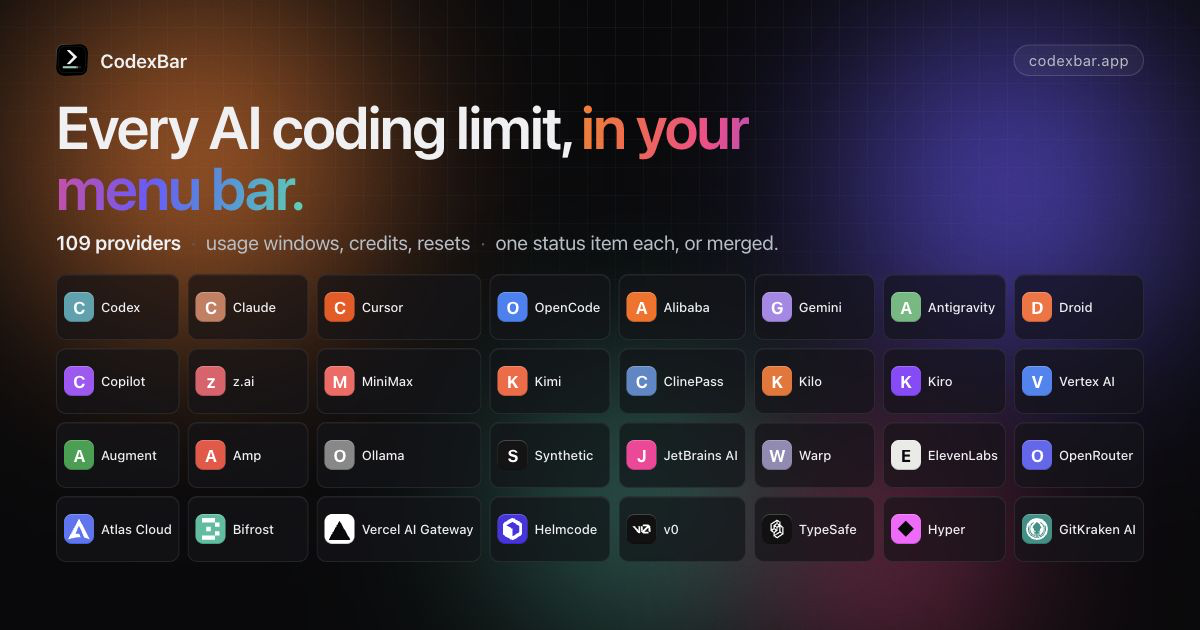
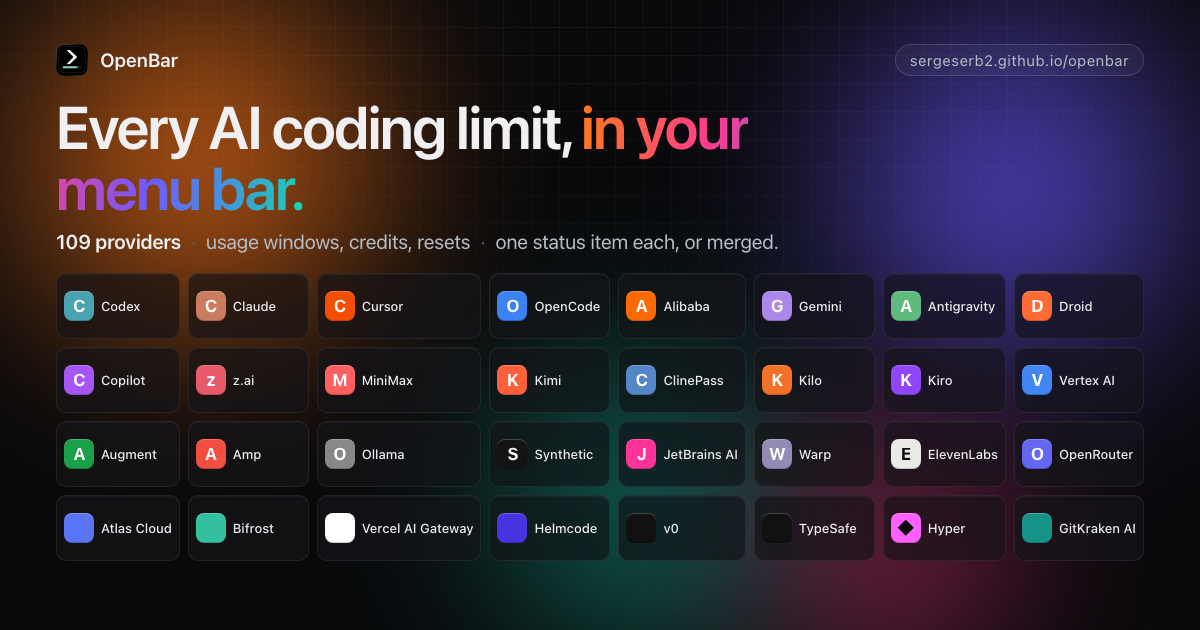
Re-render the social card for OpenBar
The rename changed docs/social.html, so the stored render receipt was stale.
Render it again, update the cache tokens, and keep the card in the README.

diff --git a/docs/index.html b/docs/index.html
@@ -41,10 +41,10 @@
     />
     <meta property="og:type" content="website" />
     <meta property="og:url" content="https://sergeserb2.github.io/OpenBar/" />
-    <meta property="og:image" content="https://sergeserb2.github.io/OpenBar/social.png?v=c2cc5e34aaa0c1f8" />
+    <meta property="og:image" content="https://sergeserb2.github.io/OpenBar/social.png?v=c67a9f96edb3250c" />
     <meta property="og:image:width" content="1200" />
     <meta property="og:image:height" content="630" />
-    <meta name="twitter:image" content="https://sergeserb2.github.io/OpenBar/social.png?v=c2cc5e34aaa0c1f8" />
+    <meta name="twitter:image" content="https://sergeserb2.github.io/OpenBar/social.png?v=c67a9f96edb3250c" />
     <meta name="twitter:card" content="summary_large_image" />
     <link rel="icon" type="image/png" href="./icon.png?v=2" />
     <link rel="apple-touch-icon" href="./icon.png?v=2" />

diff --git a/README.md b/README.md
@@ -4,6 +4,8 @@
 [![License: MIT](https://img.shields.io/badge/license-MIT-6e5aff?style=flat-square)](LICENSE)
 [![Fork of CodexBar](https://img.shields.io/badge/fork%20of-CodexBar-16d3b4?style=flat-square)](https://github.com/steipete/CodexBar)
 
+<img src="docs/social.png?v=c67a9f96edb3250c" alt="OpenBar — every AI coding limit in your menu bar." width="100%" />
+
 OpenBar is a lightweight fork of [CodexBar](https://github.com/steipete/CodexBar) by Peter Steinberger. It keeps
 CodexBar's features — usage limits, reset countdowns, credits, local cost scans, and 100+ providers — and focuses on
 keeping the app small in memory.
